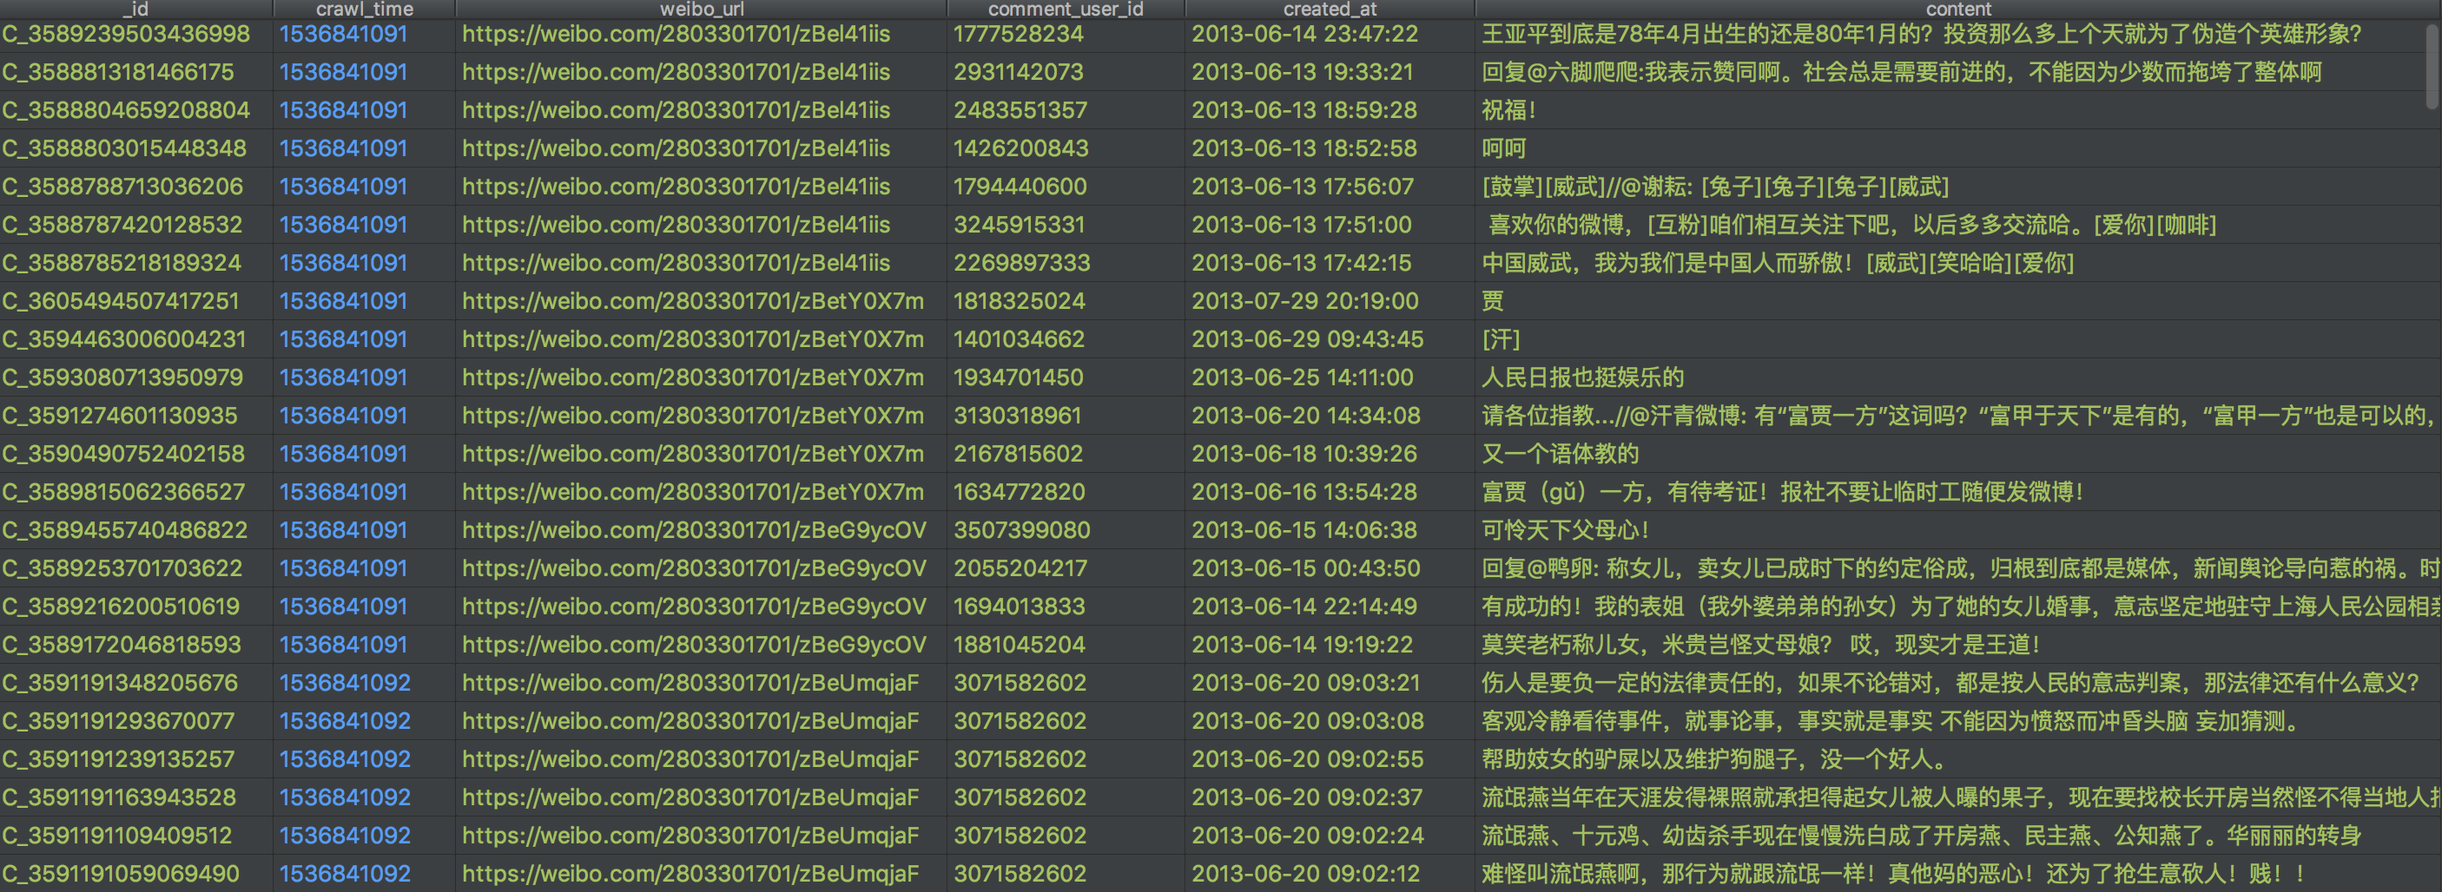
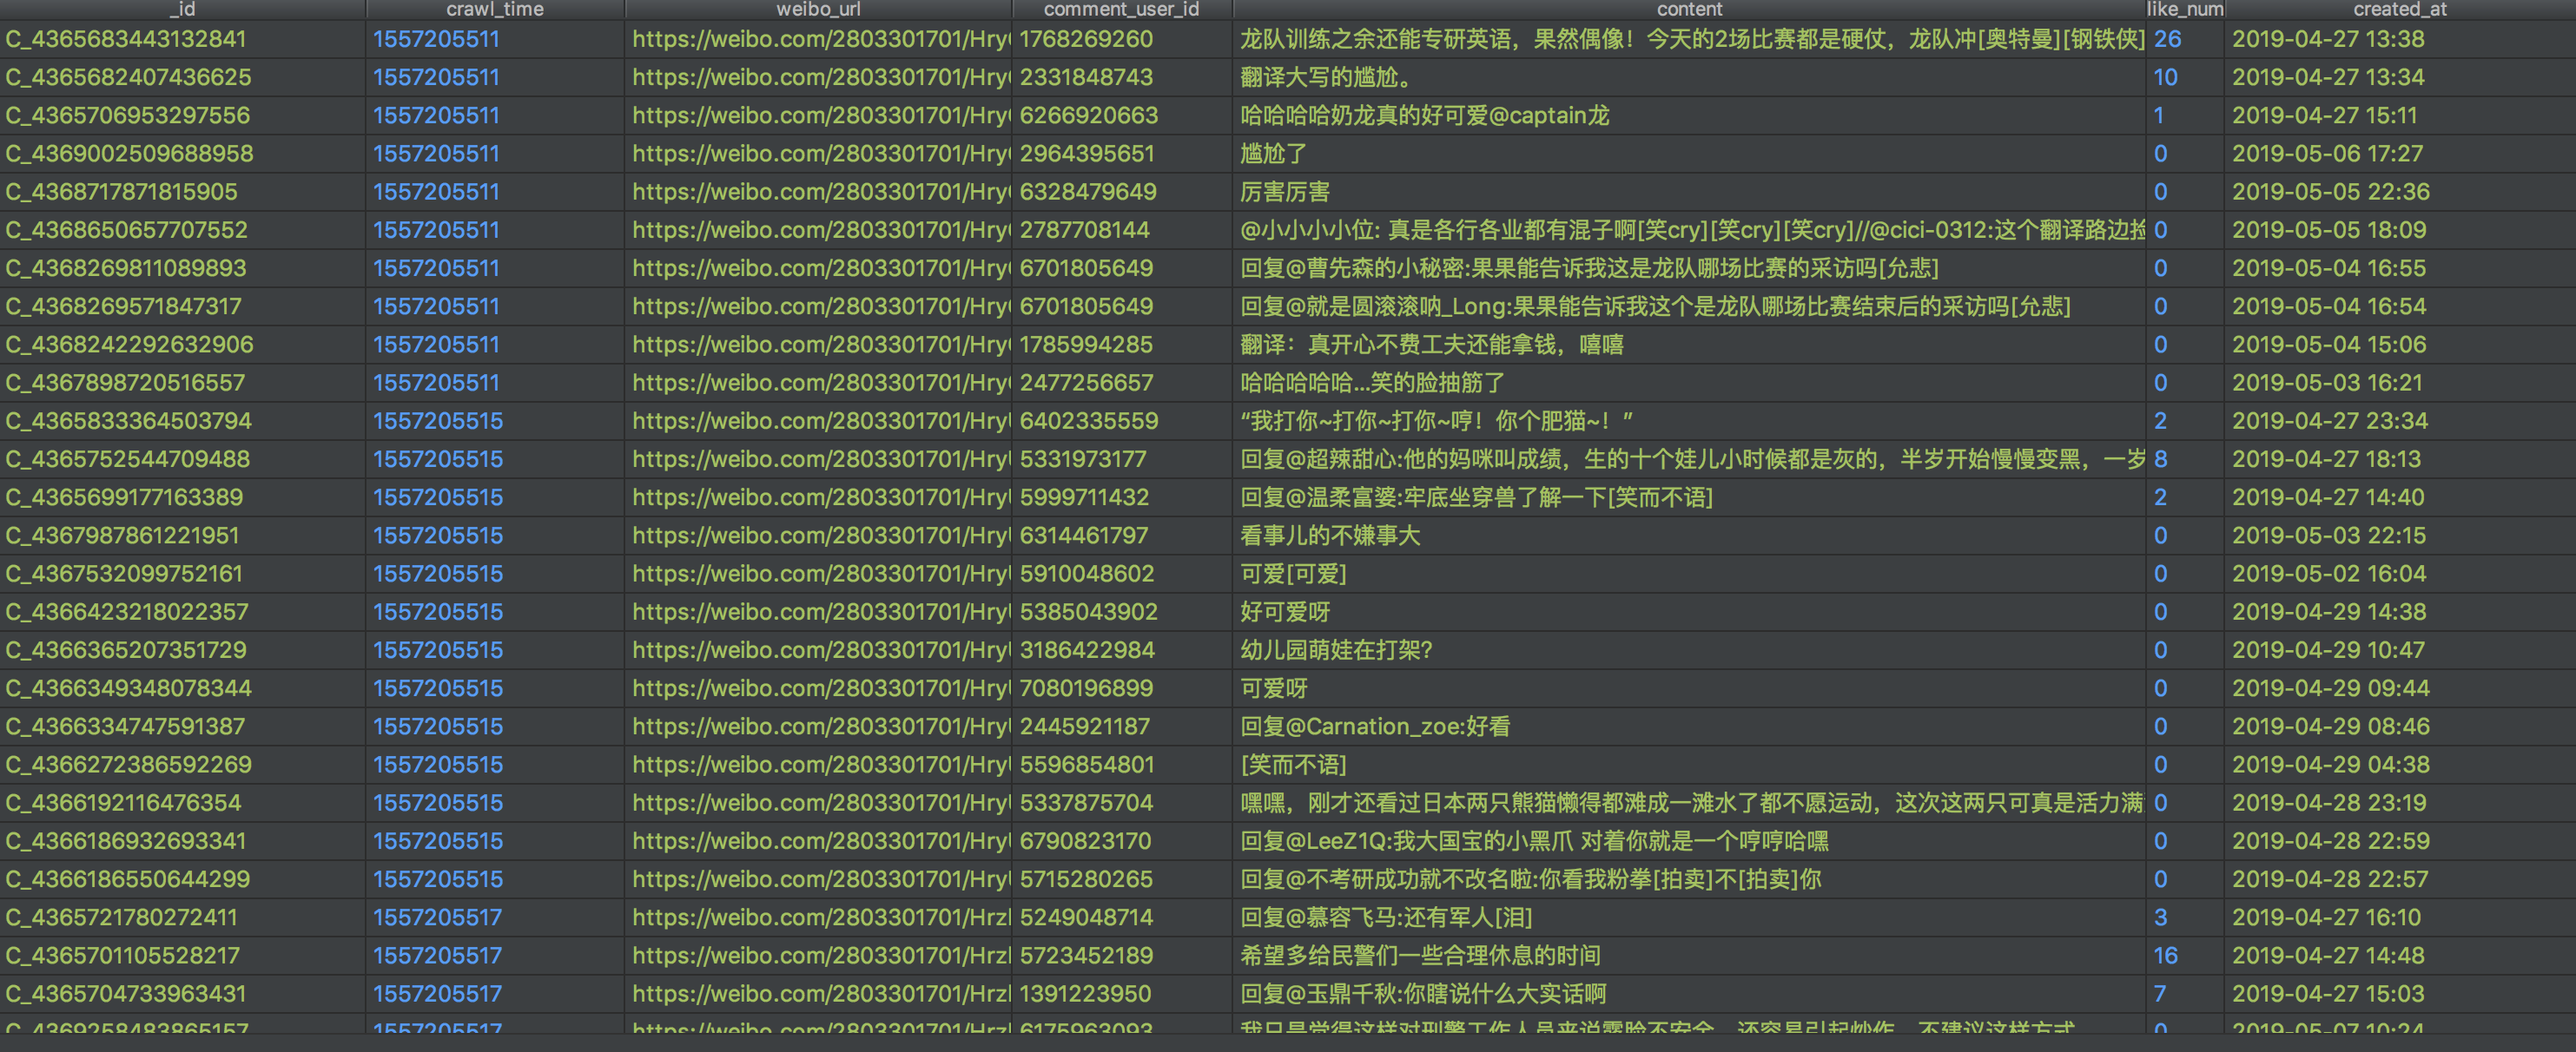
MOD: fix and update

Changed region(s): [[0.0, 0.0, 1.0, 0.9961], [0.99, 0.0311, 1.0, 0.1245]]

diff --git a/sina/spiders/weibo_spider.py b/sina/spiders/weibo_spider.py
@@ -8,14 +8,14 @@ from scrapy.http import Request
 from scrapy.utils.project import get_project_settings
 from scrapy_redis.spiders import RedisSpider
 from sina.items import TweetsItem, InformationItem, RelationshipsItem, CommentItem
-from sina.spiders.utils import time_fix
+from sina.spiders.utils import time_fix, extract_weibo_content, extract_comment_content
 import time
 
 
 class WeiboSpider(RedisSpider):
     name = "weibo_spider"
     base_url = "https://weibo.cn"
-    edis_key = "weibo_spider:start_urls"
+    redis_key = "weibo_spider:start_urls"
 
     custom_settings = {
         'CONCURRENT_REQUESTS': 16,
@@ -33,7 +33,7 @@ class WeiboSpider(RedisSpider):
         nick_name = re.findall('昵称;?[：:]?(.*?);', text1)
         gender = re.findall('性别;?[：:]?(.*?);', text1)
         place = re.findall('地区;?[：:]?(.*?);', text1)
-        brief_introduction = re.findall('简介;?[：:]?(.*?);', text1)
+        briefIntroduction = re.findall('简介;?[：:]?(.*?);', text1)
         birthday = re.findall('生日;?[：:]?(.*?);', text1)
         sex_orientation = re.findall('性取向;?[：:]?(.*?);', text1)
         sentiment = re.findall('感情状况;?[：:]?(.*?);', text1)
@@ -49,8 +49,8 @@ class WeiboSpider(RedisSpider):
             information_item["province"] = place[0]
             if len(place) > 1:
                 information_item["city"] = place[1]
-        if brief_introduction and brief_introduction[0]:
-            information_item["brief_introduction"] = brief_introduction[0].replace(u"\xa0", "")
+        if briefIntroduction and briefIntroduction[0]:
+            information_item["brief_introduction"] = briefIntroduction[0].replace(u"\xa0", "")
         if birthday and birthday[0]:
             information_item['birthday'] = birthday[0]
         if sex_orientation and sex_orientation[0]:
@@ -125,9 +125,11 @@ class WeiboSpider(RedisSpider):
                                                                            user_tweet_id.group(1))
                 tweet_item['user_id'] = user_tweet_id.group(2)
                 tweet_item['_id'] = '{}_{}'.format(user_tweet_id.group(2), user_tweet_id.group(1))
-                create_time_info = tweet_node.xpath('.//span[@class="ct"]/text()')[-1]
+                create_time_info_node = tweet_node.xpath('.//span[@class="ct"]')[-1]
+                create_time_info = create_time_info_node.xpath('string(.)')
                 if "来自" in create_time_info:
                     tweet_item['created_at'] = time_fix(create_time_info.split('来自')[0].strip())
+                    tweet_item['tool'] = create_time_info.split('来自')[1].strip()
                 else:
                     tweet_item['created_at'] = time_fix(create_time_info.strip())
 
@@ -141,6 +143,22 @@ class WeiboSpider(RedisSpider):
                     './/a[contains(text(),"评论[") and not(contains(text(),"原文"))]/text()')[-1]
                 tweet_item['comment_num'] = int(re.search('\d+', comment_num).group())
 
+                images = tweet_node.xpath('.//img[@alt="图片"]/@src')
+                if images:
+                    tweet_item['image_url'] = images[0]
+
+                videos = tweet_node.xpath('.//a[contains(@href,"https://m.weibo.cn/s/video/show?object_id=")]/@href')
+                if videos:
+                    tweet_item['video_url'] = videos[0]
+
+                map_node = tweet_node.xpath('.//a[contains(text(),"显示地图")]')
+                if map_node:
+                    tweet_item['location'] = True
+
+                repost_node = tweet_node.xpath('.//a[contains(text(),"原文评论[")]/@href')
+                if repost_node:
+                    tweet_item['origin_weibo'] = repost_node[0]
+
                 # 检测由没有阅读全文:
                 all_content_link = tweet_node.xpath('.//a[text()="全文" and contains(@href,"ckAll=1")]')
                 if all_content_link:
@@ -149,12 +167,10 @@ class WeiboSpider(RedisSpider):
                                   priority=1)
 
                 else:
-                    all_content_text = tweet_node.xpath('string(.)')
-                    if '转发理由:' in all_content_text:
-                        all_content_text = all_content_text.split('转发理由:')[1]
-                    all_content_text = all_content_text.split('\xa0', maxsplit=1)[0]
-                    all_content_text = all_content_text.split(':')[1]
-                    tweet_item['content'] = all_content_text.strip()
+                    tweet_html = etree.tostring(tweet_node, encoding='unicode')
+                    tweet_item['content'] = extract_weibo_content(tweet_html)
+                    if 'location' in tweet_item:
+                        tweet_item['location'] = tweet_node.xpath('.//span[@class="ctt"]/a[last()]/text()')[0]
                     yield tweet_item
 
                 # 抓取该微博的评论信息
@@ -169,10 +185,10 @@ class WeiboSpider(RedisSpider):
         tree_node = etree.HTML(response.body)
         tweet_item = response.meta['item']
         content_node = tree_node.xpath('//*[@id="M_"]/div[1]')[0]
-        all_content_text = content_node.xpath('string(.)').split(':', maxsplit=1)[1]
-        all_content_text = all_content_text.split('\xa0')[0]
-        all_content_text = all_content_text.split(':')[1]
-        tweet_item['content'] = all_content_text.strip()
+        tweet_html = etree.tostring(content_node, encoding='unicode')
+        tweet_item['content'] = extract_weibo_content(tweet_html)
+        if 'location' in tweet_item:
+            tweet_item['location'] = content_node.xpath('.//span[@class="ctt"]/a[last()]/text()')[0]
         yield tweet_item
 
     def parse_follow(self, response):
@@ -235,20 +251,22 @@ class WeiboSpider(RedisSpider):
                 for page_num in range(2, all_page + 1):
                     page_url = response.url.replace('page=1', 'page={}'.format(page_num))
                     yield Request(page_url, self.parse_comment, dont_filter=True, meta=response.meta)
-        selector = Selector(response)
-        comment_nodes = selector.xpath('//div[@class="c" and contains(@id,"C_")]')
+        tree_node = etree.HTML(response.body)
+        comment_nodes = tree_node.xpath('//div[@class="c" and contains(@id,"C_")]')
         for comment_node in comment_nodes:
-            comment_user_url = comment_node.xpath('.//a[contains(@href,"/u/")]/@href').extract_first()
+            comment_user_url = comment_node.xpath('.//a[contains(@href,"/u/")]/@href')
             if not comment_user_url:
                 continue
             comment_item = CommentItem()
             comment_item['crawl_time'] = int(time.time())
             comment_item['weibo_url'] = response.meta['weibo_url']
-            comment_item['comment_user_id'] = re.search(r'/u/(\d+)', comment_user_url).group(1)
-            comment_item['content'] = comment_node.xpath('.//span[@class="ctt"]').xpath('string(.)').extract_first()
-            comment_item['_id'] = comment_node.xpath('./@id').extract_first()
-            created_at = comment_node.xpath('.//span[@class="ct"]/text()').extract_first()
-            comment_item['created_at'] = time_fix(created_at.split('\xa0')[0])
+            comment_item['comment_user_id'] = re.search(r'/u/(\d+)', comment_user_url[0]).group(1)
+            comment_item['content'] = extract_comment_content(etree.tostring(comment_node, encoding='unicode'))
+            comment_item['_id'] = comment_node.xpath('./@id')[0]
+            created_at_info = comment_node.xpath('.//span[@class="ct"]/text()')[0]
+            like_num = comment_node.xpath('.//a[contains(text(),"赞[")]/text()')[-1]
+            comment_item['like_num'] = int(re.search('\d+', like_num).group())
+            comment_item['created_at'] = time_fix(created_at_info.split('\xa0')[0])
             yield comment_item
 
 

diff --git a/sina/spiders/utils.py b/sina/spiders/utils.py
@@ -9,12 +9,12 @@ def time_fix(time_string):
     if '分钟前' in time_string:
         minutes = re.search(r'^(\d+)分钟', time_string).group(1)
         created_at = now_time - datetime.timedelta(minutes=int(minutes))
-        return created_at.strftime('%Y-%m-%d %H:%M:%S')
+        return created_at.strftime('%Y-%m-%d %H:%M')
 
     if '小时前' in time_string:
         minutes = re.search(r'^(\d+)小时', time_string).group(1)
         created_at = now_time - datetime.timedelta(hours=int(minutes))
-        return created_at.strftime('%Y-%m-%d %H:%M:%S')
+        return created_at.strftime('%Y-%m-%d %H:%M')
 
     if '今天' in time_string:
         return time_string.replace('今天', now_time.strftime('%Y-%m-%d'))
@@ -25,3 +25,49 @@ def time_fix(time_string):
         return time_string
 
     return time_string
+
+
+keyword_re = re.compile('<span class="kt">|</span>|原图|<!-- 是否进行翻译 -->|')
+emoji_re = re.compile('<img alt="|" src="//h5\.sinaimg(.*?)/>')
+white_space_re = re.compile('<br />')
+div_re = re.compile('</div>|<div>')
+image_re = re.compile('<img(.*?)/>')
+url_re = re.compile('<a href=(.*?)>|</a>')
+
+
+def extract_weibo_content(weibo_html):
+    s = weibo_html
+    if '转发理由' in s:
+        s = s.split('转发理由:', maxsplit=1)[1]
+    if 'class="ctt">' in s:
+        s = s.split('class="ctt">', maxsplit=1)[1]
+    s = s.split('赞', maxsplit=1)[0]
+    s = keyword_re.sub('', s)
+    s = emoji_re.sub('', s)
+    s = url_re.sub('', s)
+    s = div_re.sub('', s)
+    s = image_re.sub('', s)
+    if '<span class="ct">' in s:
+        s = s.split('<span class="ct">')[0]
+    s = white_space_re.sub(' ', s)
+    s = s.replace('\xa0', '')
+    s = s.strip(':')
+    s = s.strip()
+    return s
+
+
+def extract_comment_content(comment_html):
+    s = comment_html
+    if 'class="ctt">' in s:
+        s = s.split('class="ctt">', maxsplit=1)[1]
+    s = s.split('举报', maxsplit=1)[0]
+    s = emoji_re.sub('', s)
+    s = keyword_re.sub('', s)
+    s = url_re.sub('', s)
+    s = div_re.sub('', s)
+    s = image_re.sub('', s)
+    s = white_space_re.sub(' ', s)
+    s = s.replace('\xa0', '')
+    s = s.strip(':')
+    s = s.strip()
+    return s

diff --git a/sina/items.py b/sina/items.py
@@ -12,6 +12,11 @@ class TweetsItem(Item):
     comment_num = Field()  # 评论数
     content = Field()  # 微博内容
     user_id = Field()  # 发表该微博用户的id
+    tool = Field()  # 发布微博的工具
+    image_url = Field()  # 图片
+    video_url = Field()  # 视频
+    location = Field()  # 定位信息
+    origin_weibo = Field()  # 原始微博，只有转发的微博才有这个字段
     crawl_time = Field()  # 抓取时间戳
 
 
@@ -32,8 +37,8 @@ class InformationItem(Item):
     vip_level = Field()  # 会员等级
     authentication = Field()  # 认证
     person_url = Field()  # 首页链接
-    crawl_time = Field()  # 抓取时间戳
     labels = Field()  # 标签
+    crawl_time = Field()  # 抓取时间戳
 
 
 class RelationshipsItem(Item):
@@ -53,4 +58,5 @@ class CommentItem(Item):
     content = Field()  # 评论的内容
     weibo_url = Field()  # 评论的微博的url
     created_at = Field()  # 评论发表时间
+    like_num = Field()  # 点赞数
     crawl_time = Field()  # 抓取时间戳

diff --git a/data_stracture.md b/data_stracture.md
@@ -18,6 +18,7 @@
 |vip_level| 会员等级|
 |authentication|认证情况|
 |person_url|用户首页链接|
+|labels|用户标签，用逗号分割|
 |crawl_time|抓取时间戳|
 
 示例:
@@ -28,12 +29,17 @@
 |    字段   | 说明 |
 | :---: | :----: |
 | _id | 微博id |
-|user_id       | 这则微博作者的ID |
+|user_id| 这则微博作者的ID |
 |content |微博的内容|
 |created_at |微博发表时间|
 |repost_num |转发数|
 |comment_num |评论数|
 |like_num| 点赞数|
+|tool|发布微博的工具|
+|image_url|微博中图片的URL，注意如果是组图会只抓取第一张|
+|video_url|微博中视频的URL|
+|location|定位信息|
+|origin_weibo|原始微博，只有转发的微博才有这个字段|
 |crawl_time|抓取时间戳|
 
 示例:

diff --git a/README.md b/README.md
@@ -20,7 +20,8 @@ This is a sina weibo spider built by scrapy
 已经在senior分支的基础上新增了[search分支](https://github.com/nghuyong/WeiboSpider/tree/search)，用于微博关键词搜索
 
 
-## update
+## Change log
+- 2019/05/07 全面修复历史问题，增加用户的标签，评论的点赞，微博的发布平台/表情/图片/视频等新的字段
 - 2018/10/13 添加[微博搜索分支](https://github.com/nghuyong/WeiboSpider/tree/search)
 - 2018/9/30 添加布隆过滤器
 
